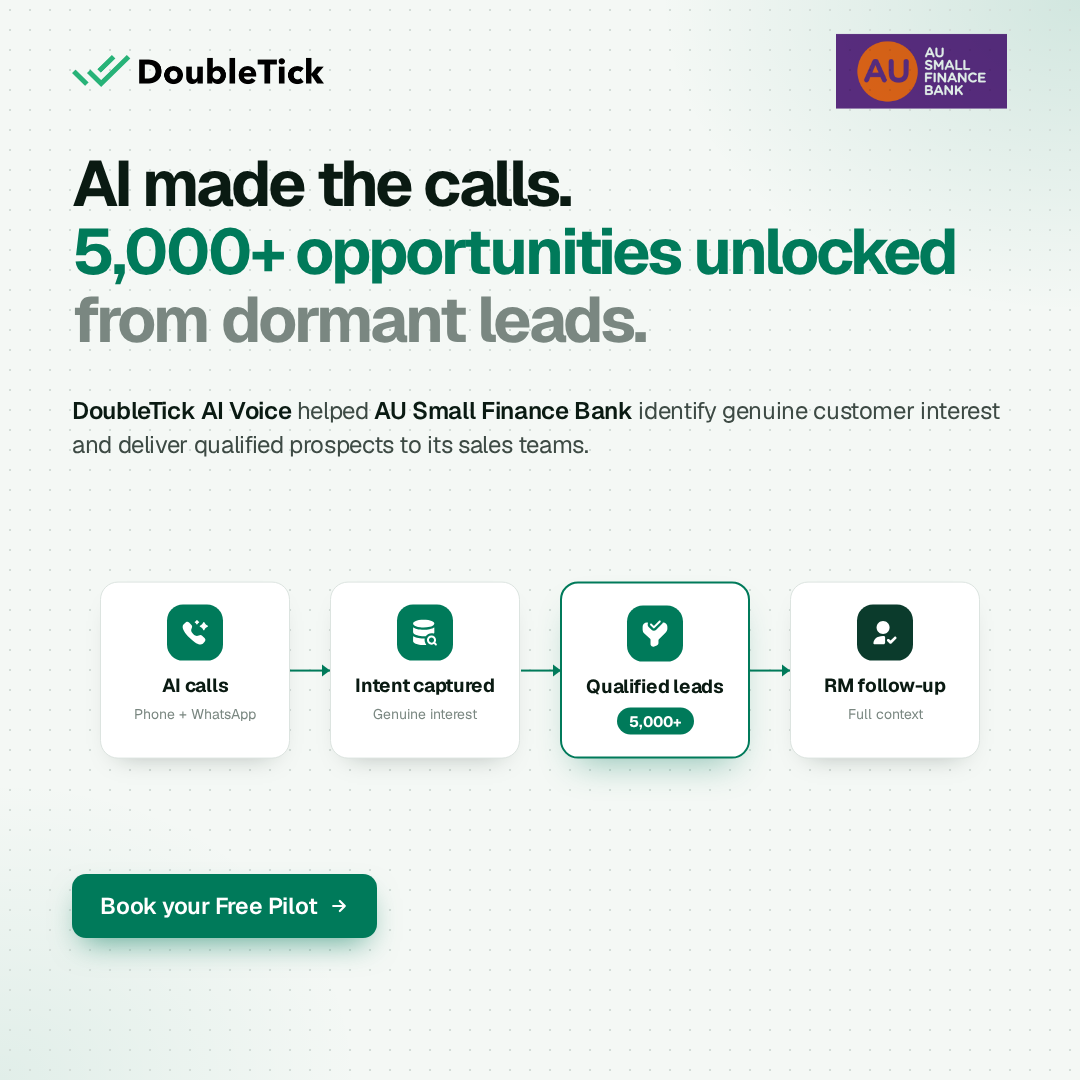
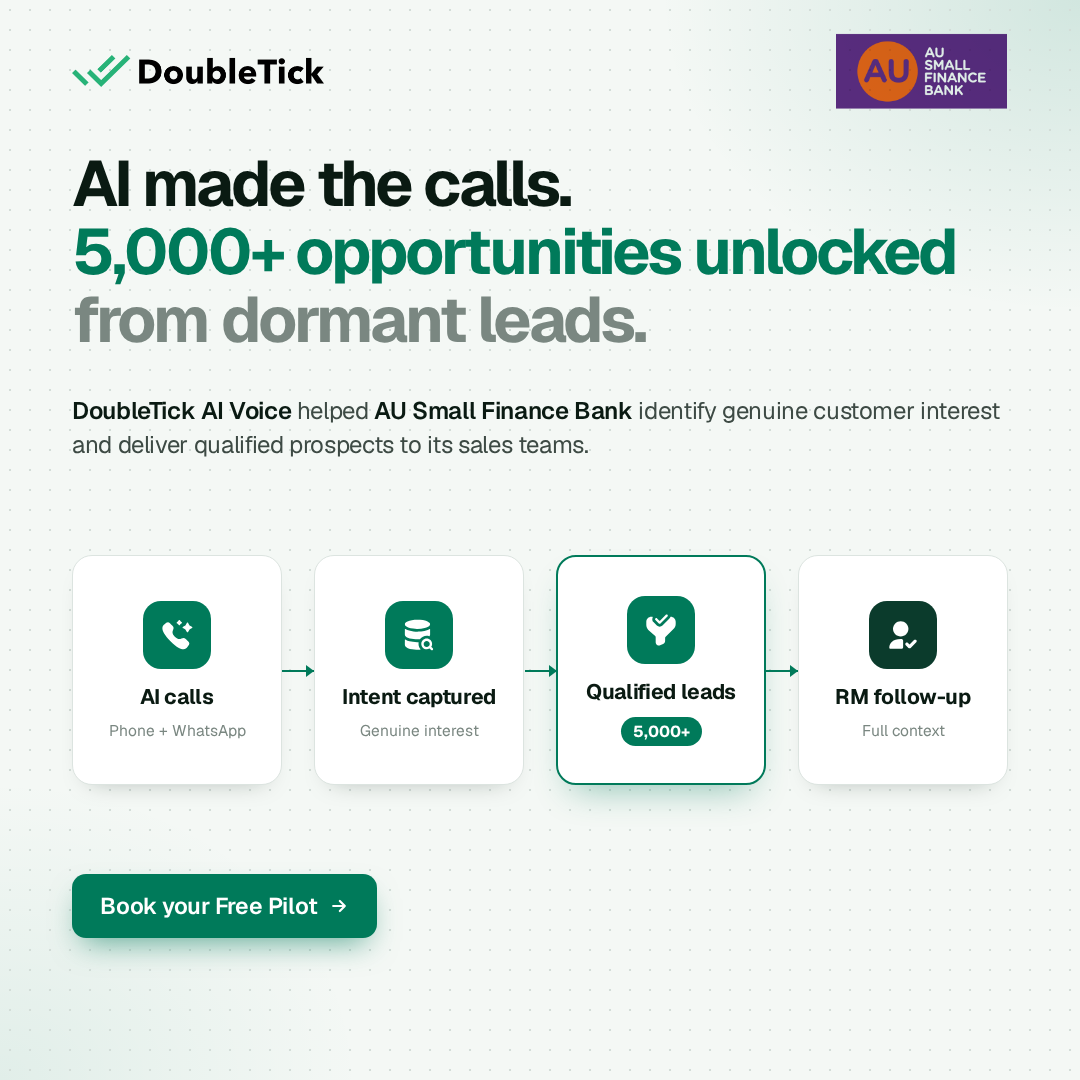
feat: larger workflow cards with more padding in AU v8 ad
Claude-Session: https://claude.ai/code/session_013Hi5o4KgvuLbKTeGkStAKX

diff --git a/ads/doubletick-case-au-v8/index.html b/ads/doubletick-case-au-v8/index.html
@@ -23,16 +23,16 @@
   /* visual: SaaS workflow canvas, decluttered */
   .vis { left: 72px; top: 520px; width: 936px; height: 300px; overflow: visible;
     background: transparent; }
-  .nodes { position: absolute; left: 28px; right: 28px; top: 50%; transform: translateY(-50%); display: grid; grid-template-columns: repeat(4, 1fr); gap: 40px; }
-  .node { background: #fff; border: 1px solid #DCE4E0; border-radius: 18px; padding: 22px 16px; display: flex; flex-direction: column; align-items: center; gap: 14px; text-align: center; position: relative;
+  .nodes { position: absolute; left: 0; right: 0; top: 50%; transform: translateY(-50%); display: grid; grid-template-columns: repeat(4, 1fr); gap: 32px; }
+  .node { background: #fff; border: 1px solid #DCE4E0; border-radius: 20px; padding: 34px 18px 32px; min-height: 230px; display: flex; flex-direction: column; align-items: center; justify-content: center; gap: 16px; text-align: center; position: relative;
     box-shadow: 0 12px 26px -18px rgba(10,26,18,.35); }
   .node.hl { border: 2px solid var(--green); box-shadow: 0 18px 36px -16px rgba(0,122,90,.45); }
-  .node + .node::before { content: ""; position: absolute; left: -41px; top: 50%; width: 40px; height: 2px; background: var(--green); }
+  .node + .node::before { content: ""; position: absolute; left: -33px; top: 50%; width: 32px; height: 2px; background: var(--green); }
   .node + .node::after { content: ""; position: absolute; left: -9px; top: calc(50% - 5px); border: 6px solid transparent; border-left: 8px solid var(--green); border-right: 0; }
-  .ni { width: 56px; height: 56px; border-radius: 16px; display: grid; place-items: center; background: var(--green); }
-  .nt { font-size: 19px; font-weight: 700; letter-spacing: -0.015em; line-height: 1.15; }
-  .ns { font-size: 14px; color: var(--muted); margin-top: -6px; }
-  .big { font-size: 15px; font-weight: 700; color: #fff; background: var(--green); padding: 4px 12px; border-radius: 999px; margin-top: -4px; }
+  .ni { width: 68px; height: 68px; border-radius: 18px; display: grid; place-items: center; background: var(--green); }
+  .nt { font-size: 21px; font-weight: 700; letter-spacing: -0.015em; line-height: 1.15; }
+  .ns { font-size: 15.5px; color: var(--muted); margin-top: -6px; }
+  .big { font-size: 16px; font-weight: 700; color: #fff; background: var(--green); padding: 4px 12px; border-radius: 999px; margin-top: -4px; }
   .cta { left: 72px; top: 874px; }
   .btn { background: var(--green); color: #fff; font-size: 23px; font-weight: 600; letter-spacing: -0.01em; padding: 17px 28px; border-radius: 14px;
     display: flex; align-items: center; gap: 12px; box-shadow: 0 14px 30px -10px rgba(0,122,90,.6); }
@@ -44,10 +44,10 @@
   <p class="sub"><b>DoubleTick AI Voice</b> helped <b>AU Small Finance Bank</b> identify genuine customer interest and deliver qualified prospects to its sales teams.</p>
 
   <div class="vis"><div class="nodes">
-    <div class="node"><span class="ni"><img src="icons/ai-call.svg" width="32" height="32" alt="" /></span><div class="nt">AI calls</div><div class="ns">Phone + WhatsApp</div></div>
-    <div class="node"><span class="ni"><img src="icons/intent-captured.svg" width="32" height="32" alt="" /></span><div class="nt">Intent captured</div><div class="ns">Genuine interest</div></div>
-    <div class="node hl"><span class="ni"><img src="icons/qualified-lead.svg" width="32" height="32" alt="" /></span><div class="nt">Qualified leads</div><div class="big">5,000+</div></div>
-    <div class="node"><span class="ni" style="background:#0B3B2C"><img src="icons/rm-follow-up.svg" width="32" height="32" alt="" /></span><div class="nt">RM follow-up</div><div class="ns">Full context</div></div>
+    <div class="node"><span class="ni"><img src="icons/ai-call.svg" width="38" height="38" alt="" /></span><div class="nt">AI calls</div><div class="ns">Phone + WhatsApp</div></div>
+    <div class="node"><span class="ni"><img src="icons/intent-captured.svg" width="38" height="38" alt="" /></span><div class="nt">Intent captured</div><div class="ns">Genuine interest</div></div>
+    <div class="node hl"><span class="ni"><img src="icons/qualified-lead.svg" width="38" height="38" alt="" /></span><div class="nt">Qualified leads</div><div class="big">5,000+</div></div>
+    <div class="node"><span class="ni" style="background:#0B3B2C"><img src="icons/rm-follow-up.svg" width="38" height="38" alt="" /></span><div class="nt">RM follow-up</div><div class="ns">Full context</div></div>
   </div></div>
 
   <div class="cta"><div class="btn">Book your Free Pilot
